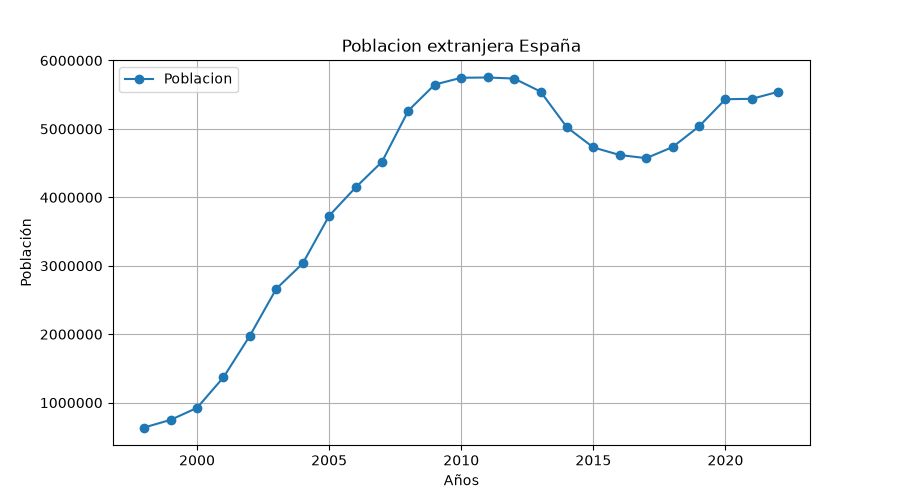
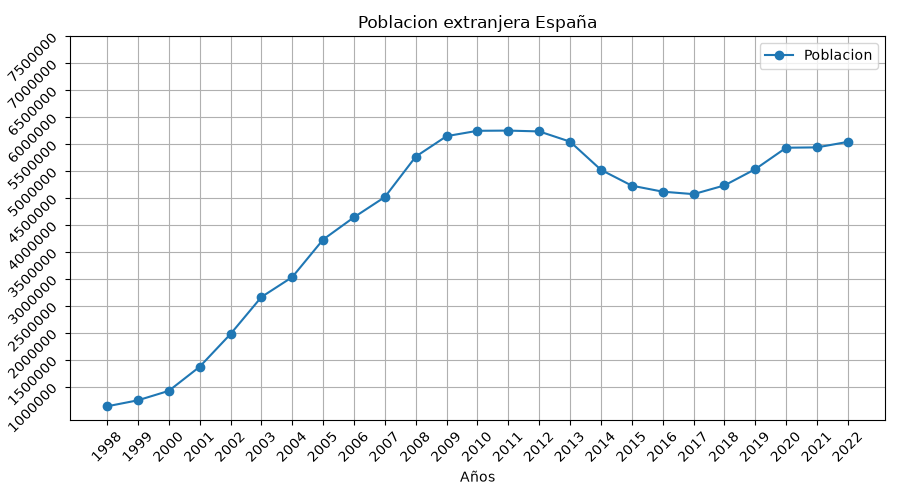
Estudio de poblacion

diff --git a/Analisis con python/pobla/src/leerdatos.py b/Analisis con python/pobla/src/leerdatos.py
@@ -25,10 +25,13 @@ plt.figure(figsize=(9, 5))
 plt.plot(años, poblacion, marker="o", linestyle="-", label="Poblacion")
 plt.title("Poblacion extranjera España")
 plt.xlabel("Años")
+plt.xticks(años, rotation=45)
+plt.yticks(poblacion, rotation=45)
+plt.yticks(range(1_000_000, 8_000_000, 500_000))
 plt.ylabel("Población")
 plt.grid(True)
 plt.legend()
-#plt.tight_layout()
+plt.tight_layout()
 plt.ticklabel_format(style='plain', axis='y')
 plt.show()
 
